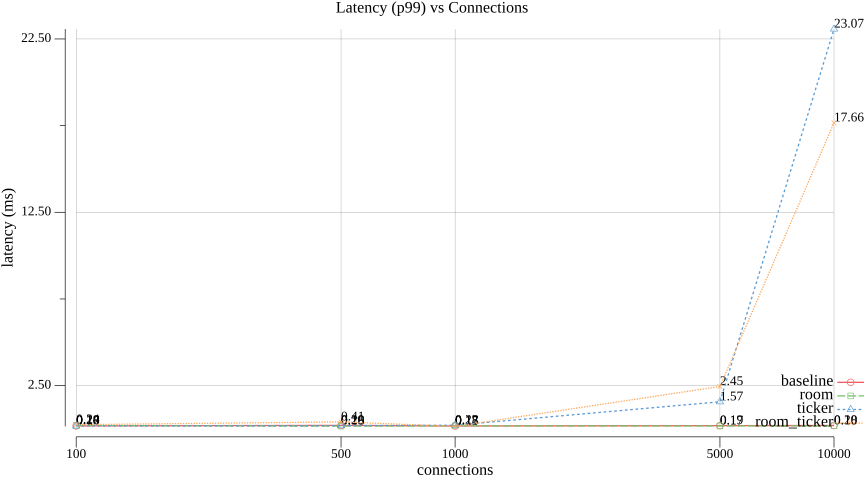
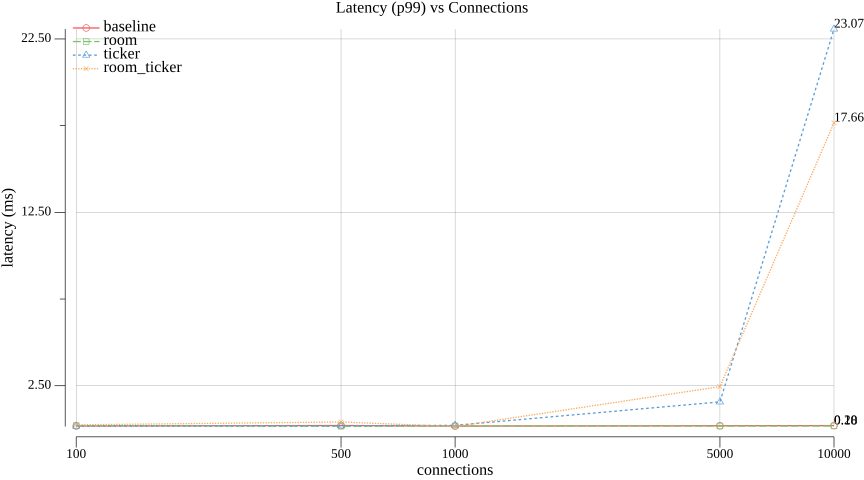
🐛 fix overlapping labels and legend placement in benchmark charts
Label only each series' last point instead of every point (collisions
at close values); pin legend to top-left, outside the plotted area.

diff --git a/.benchmark/chart/plot.go b/.benchmark/chart/plot.go
@@ -162,6 +162,8 @@ func logAxis(p *plot.Plot, loads []float64) {
 	p.X.Scale = plot.LogScale{}
 	p.X.Tick.Marker = connTicks{values: loads}
 	p.Add(plotter.NewGrid())
+	p.Legend.Top = true
+	p.Legend.Left = true
 }
 
 // distinctConns collects the sorted, unique connection counts present across
@@ -192,14 +194,18 @@ func toXY(rows []row, f func(row) float64) plotter.XYs {
 	return pts
 }
 
-// labelPoints adds a text label with each point's Y value above the marker,
-// so exact values are readable without hovering/zooming.
+// labelPoints adds a text label only on the last point of the series (the
+// value most readers care about, and the only spot guaranteed not to collide
+// with a neighboring series at the same X).
 func labelPoints(p *plot.Plot, pts plotter.XYs, format string) error {
-	labels := make([]string, len(pts))
-	for i, pt := range pts {
-		labels[i] = fmt.Sprintf(format, pt.Y)
+	if len(pts) == 0 {
+		return nil
 	}
-	l, err := plotter.NewLabels(plotter.XYLabels{XYs: pts, Labels: labels})
+	last := pts[len(pts)-1]
+	l, err := plotter.NewLabels(plotter.XYLabels{
+		XYs:    plotter.XYs{last},
+		Labels: []string{fmt.Sprintf(format, last.Y)},
+	})
 	if err != nil {
 		return err
 	}
